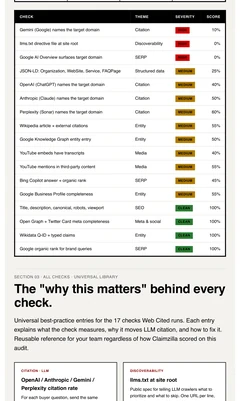
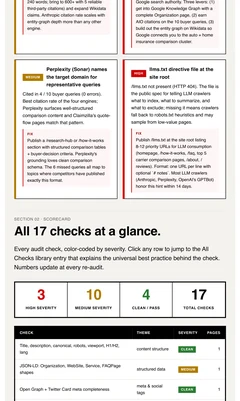
fix(gallery): re-extract marketing screenshots from refreshed canonicals
Today's PR #55 (web-cited-pipeline `d448a8d`) refreshed the canonical
PDF + Playbook with Item AA Variant B CI annotations + 3 Playbook
fixes (JSON-LD <script> wrapper restoration, full fix_hint roadmap
copy, CI methodology footnote). The marketing screenshot gallery on
services.html is rendered FROM those canonicals via
web-cited-pipeline/scripts/extract_marketing_screenshots.py, but that
extractor was not re-run with the canonical refresh, so the gallery
showed pre-AA screenshots even though the canonical was current.

Operator surfaced as "screenshot reverted to old screenshots" after
the gallery click handlers came back online (PR #47).

Re-ran the extractor against today's canonical PDF + Playbook + Portfolio.
Files that bytes-changed (PR #55 visible in their crops):
- 01-cover.webp        (Section 1 KPI strip + CI methodology footnote)
- 07-scorecard.webp    (Playbook Section 02 + linked Section 03 lib-cards;
                        height grew 1013 -> 1254 from CI methodology footnote)
- 08-code.webp         (Playbook Section 05 with restored
                        <script type="application/ld+json"> wrappers
                        + Section 04 roadmap full fix_hint copy;
                        height grew 1013 -> 1787)
- 09-dashboard.webp    (Playbook Section 01 KPI strip CI + engine-grid CI)
- 06-summary.webp      (out-of-gallery extract; kept in sync)

Files unchanged (02-patterns, 03-findings, 04-roadmap, 05-schema):
[…]

diff --git a/services.html b/services.html
@@ -316,7 +316,7 @@
                  offscreen img as a candidate, then invalidated, and
                  never finalized any LCP). -->
             <img id="galHero"
-                 src="og/sample-gallery/01-cover.webp?v=c"
+                 src="og/sample-gallery/01-cover.webp?v=f"
                  alt="SXO Audit cover showing 40% citation share and 80% leader share."
                  width="766" height="515"
                  loading="lazy" decoding="async" />
@@ -331,11 +331,11 @@
 
           <ul class="gal-thumbs" id="galThumbs" aria-label="Sample report screenshot thumbnails">
             <li><button type="button" class="gal-thumb is-active" aria-current="true"
-              data-hero="og/sample-gallery/01-cover.webp?v=c" data-w="766" data-h="515"
+              data-hero="og/sample-gallery/01-cover.webp?v=f" data-w="766" data-h="515"
               data-alt="SXO Audit cover showing 40% citation share and 80% leader share."
               data-title="Cover &middot; Page 1 of the SXO Audit"
               data-detail="The single metric that lands first: where you stand in AI-driven answers today, benchmarked against the category leader. Across 10 buyer questions, four engines, three competitors. The body of the report tells you why and how to close the gap.">
-              <img src="og/sample-gallery/thumbs/01-cover.webp?v=c" alt="" width="240" height="155" loading="lazy" decoding="async" />
+              <img src="og/sample-gallery/thumbs/01-cover.webp?v=f" alt="" width="240" height="155" loading="lazy" decoding="async" />
               <span class="gal-thumb-cap">Cover</span>
             </button></li>
             <li><button type="button" class="gal-thumb"
@@ -363,27 +363,27 @@
               <span class="gal-thumb-cap">Schema</span>
             </button></li>
             <li><button type="button" class="gal-thumb"
-              data-hero="og/sample-gallery/07-scorecard.webp?v=c" data-w="766" data-h="1013"
+              data-hero="og/sample-gallery/07-scorecard.webp?v=f" data-w="766" data-h="1254"
               data-alt="Playbook scorecard with three CLEAN rows and the Library section preface."
               data-title="Scorecard &middot; Playbook Section 02"
               data-detail="Every check color-coded by severity with a 0-to-100 score, plus the universal Library entry that explains what the check measures and how to fix it. The Playbook stays live for 12 months; numbers update at every re-audit.">
-              <img src="og/sample-gallery/thumbs/07-scorecard.webp?v=c" alt="" width="240" height="321" loading="lazy" decoding="async" />
+              <img src="og/sample-gallery/thumbs/07-scorecard.webp?v=f" alt="" width="240" height="401" loading="lazy" decoding="async" />
               <span class="gal-thumb-cap">Scorecard</span>
             </button></li>
             <li><button type="button" class="gal-thumb"
-              data-hero="og/sample-gallery/08-code.webp?v=c" data-w="766" data-h="1013"
+              data-hero="og/sample-gallery/08-code.webp?v=f" data-w="766" data-h="1787"
               data-alt="JSON-LD FAQPage code block ready to paste."
               data-title="Code &middot; Playbook Section 05"
               data-detail="Copy-paste JSON-LD per priority page. Each block is a complete, validated payload generated from your audit, no placeholder text. Run them through Google Rich Results Test before merging.">
-              <img src="og/sample-gallery/thumbs/08-code.webp?v=c" alt="" width="240" height="321" loading="lazy" decoding="async" />
+              <img src="og/sample-gallery/thumbs/08-code.webp?v=f" alt="" width="240" height="579" loading="lazy" decoding="async" />
               <span class="gal-thumb-cap">Code</span>
             </button></li>
             <li><button type="button" class="gal-thumb"
-              data-hero="og/sample-gallery/09-dashboard.webp?v=e" data-w="766" data-h="997"
+              data-hero="og/sample-gallery/09-dashboard.webp?v=f" data-w="766" data-h="997"
               data-alt="Playbook executive dashboard with 40% / 80% citation share KPI strip, four engine cards, and four severity-graded finding cards."
               data-title="Dashboard &middot; Playbook Section 01"
               data-detail="The whole executive read in one glance. KPI strip with you-cited and leader-cited share, four-engine breakdown (ChatGPT, Claude, Gemini, Perplexity) with per-engine progress bars, then the three patterns moving the needle and the top four severity-graded finding cards that drive your priority fixes.">
-              <img src="og/sample-gallery/thumbs/09-dashboard.webp?v=e" alt="" width="240" height="315" loading="lazy" decoding="async" />
+              <img src="og/sample-gallery/thumbs/09-dashboard.webp?v=f" alt="" width="240" height="315" loading="lazy" decoding="async" />
               <span class="gal-thumb-cap">Dashboard</span>
             </button></li>
           </ul>
